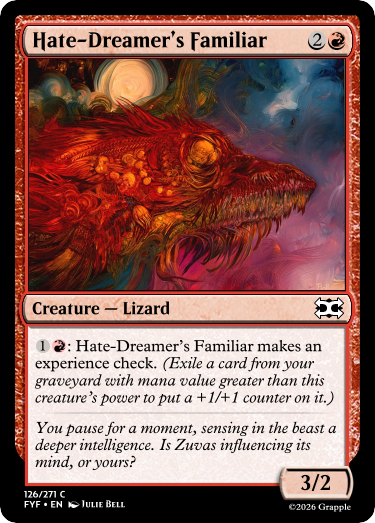
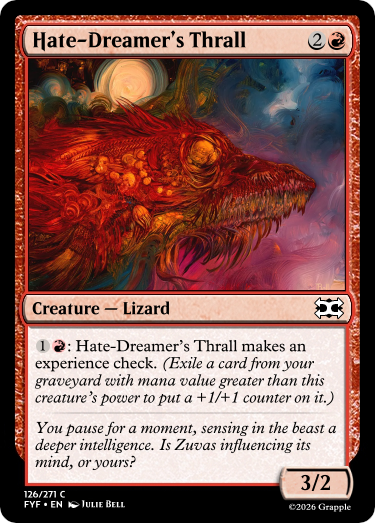
upd

diff --git a/previews/FYF.html b/previews/FYF.html
@@ -368,7 +368,7 @@
 				<div class="container"><img loading="lazy" alt="sets\FYF-files\img\269.png" id="FYF_269" data-flag="@X" onclick="openSidebar('FYF_269',false)"></div>
 				<div class="container"><img loading="lazy" alt="sets\FYF-files\img\31.png" id="FYF_31" data-flag="@N" onclick="openSidebar('FYF_31',false)"></div>
 				<div class="container"><img loading="lazy" alt="sets\FYF-files\img\65.png" id="FYF_65" data-flag="@X" onclick="openSidebar('FYF_65',false)"></div>
-				<div class="container"><img loading="lazy" alt="sets\FYF-files\img\97.png" id="FYF_97" data-flag="@N" onclick="openSidebar('FYF_97',false)"></div>
+				<div class="container"><img loading="lazy" alt="sets\FYF-files\img\97.png" id="FYF_97" data-flag="@X" onclick="openSidebar('FYF_97',false)"></div>
 				<div class="container"><img loading="lazy" alt="sets\FYF-files\img\131.png" id="FYF_131" data-flag="@N" onclick="openSidebar('FYF_131',false)"></div>
 				<div class="container"><img loading="lazy" alt="sets\FYF-files\img\273.png" id="FYF_273" data-flag="@X" onclick="openSidebar('FYF_273',false)"></div>
 				<div class="container"><img loading="lazy" alt="sets\FYF-files\img\30.png" id="FYF_30" data-flag="@N" onclick="openSidebar('FYF_30',false)"></div>
@@ -383,7 +383,7 @@
 				<div class="container"><img loading="lazy" alt="sets\FYF-files\img\175.png" id="FYF_175" data-flag="@N" onclick="openSidebar('FYF_175',false)"></div>
 				<div class="container"><img loading="lazy" alt="sets\FYF-files\img\42.png" id="FYF_42" data-flag="@N" onclick="openSidebar('FYF_42',false)"></div>
 				<div class="container"><img loading="lazy" alt="sets\FYF-files\img\71.png" id="FYF_71" data-flag="@X" onclick="openSidebar('FYF_71',false)"></div>
-				<div class="container"><img loading="lazy" alt="sets\FYF-files\img\111.png" id="FYF_111" data-flag="@N" onclick="openSidebar('FYF_111',false)"></div>
+				<div class="container"><img loading="lazy" alt="sets\FYF-files\img\111.png" id="FYF_111" data-flag="@X" onclick="openSidebar('FYF_111',false)"></div>
 				<div class="container"><img loading="lazy" alt="sets\FYF-files\img\140.png" id="FYF_140" data-flag="@N" onclick="openSidebar('FYF_140',false)"></div>
 				<div class="container"><img loading="lazy" alt="sets\FYF-files\img\176.png" id="FYF_176" data-flag="@N" onclick="openSidebar('FYF_176',false)"></div>
 				<div class="container"><img loading="lazy" alt="sets\FYF-files\img\44.png" id="FYF_44" data-flag="@N" onclick="openSidebar('FYF_44',false)"></div>
@@ -409,7 +409,7 @@
 				<div class="container"><img loading="lazy" alt="sets\FYF-files\img\38.png" id="FYF_38" data-flag="@X" onclick="openSidebar('FYF_38',false)"></div>
 				<div class="container"><img loading="lazy" alt="sets\FYF-files\img\75.png" id="FYF_75" data-flag="@N" onclick="openSidebar('FYF_75',false)"></div>
 				<div class="container"><img loading="lazy" alt="sets\FYF-files\img\108.png" id="FYF_108" data-flag="@N" onclick="openSidebar('FYF_108',false)"></div>
-				<div class="container"><img loading="lazy" alt="sets\FYF-files\img\144.png" id="FYF_144" data-flag="@N" onclick="openSidebar('FYF_144',false)"></div>
+				<div class="container"><img loading="lazy" alt="sets\FYF-files\img\144.png" id="FYF_144" data-flag="@X" onclick="openSidebar('FYF_144',false)"></div>
 				<div class="container"><img loading="lazy" alt="sets\FYF-files\img\170.png" id="FYF_170" data-flag="@N" onclick="openSidebar('FYF_170',false)"></div>
 				<div class="container"><img loading="lazy" alt="sets\FYF-files\img\36.png" id="FYF_36" data-flag="@N" onclick="openSidebar('FYF_36',false)"></div>
 				<div class="container"><img loading="lazy" alt="sets\FYF-files\img\275.png" id="FYF_275" data-flag="@N" onclick="openSidebar('FYF_275',false)"></div>
@@ -436,15 +436,15 @@
 				<div class="container"><img loading="lazy" alt="sets\FYF-files\img\91.png" id="FYF_91" data-flag="@N" onclick="openSidebar('FYF_91',false)"></div>
 				<div class="container"><img loading="lazy" alt="sets\FYF-files\img\121.png" id="FYF_121" data-flag="@X" onclick="openSidebar('FYF_121',false)"></div>
 				<div class="container"><img loading="lazy" alt="sets\FYF-files\img\162.png" id="FYF_162" data-flag="@N" onclick="openSidebar('FYF_162',false)"></div>
-				<div class="container"><img loading="lazy" alt="sets\FYF-files\img\259.png" id="FYF_259" data-flag="@N" onclick="openSidebar('FYF_259',false)"></div>
+				<div class="container"><img loading="lazy" alt="sets\FYF-files\img\259.png" id="FYF_259" data-flag="@X" onclick="openSidebar('FYF_259',false)"></div>
 				<div class="container"><img loading="lazy" alt="sets\FYF-files\img\50.png" id="FYF_50" data-flag="@N" onclick="openSidebar('FYF_50',false)"></div>
-				<div class="container"><img loading="lazy" alt="sets\FYF-files\img\115.png" id="FYF_115" data-flag="@N" onclick="openSidebar('FYF_115',false)"></div>
+				<div class="container"><img loading="lazy" alt="sets\FYF-files\img\115.png" id="FYF_115" data-flag="@X" onclick="openSidebar('FYF_115',false)"></div>
 				<div class="container"><img loading="lazy" alt="sets\FYF-files\img\128.png" id="FYF_128" data-flag="@X" onclick="openSidebar('FYF_128',false)"></div>
 				<div class="container"><img loading="lazy" alt="sets\FYF-files\img\159.png" id="FYF_159" data-flag="@N" onclick="openSidebar('FYF_159',false)"></div>
 				<div class="container"><img loading="lazy" alt="sets\FYF-files\img\19.png" id="FYF_19" data-flag="@N" onclick="openSidebar('FYF_19',false)"></div>
 				<div class="container"><img loading="lazy" alt="sets\FYF-files\img\57.png" id="FYF_57" data-flag="@N" onclick="openSidebar('FYF_57',false)"></div>
 				<div class="container"><img loading="lazy" alt="sets\FYF-files\img\92.png" id="FYF_92" data-flag="@N" onclick="openSidebar('FYF_92',false)"></div>
-				<div class="container"><img loading="lazy" alt="sets\FYF-files\img\126.png" id="FYF_126" data-flag="@N" onclick="openSidebar('FYF_126',false)"></div>
+				<div class="container"><img loading="lazy" alt="sets\FYF-files\img\126.png" id="FYF_126" data-flag="@X" onclick="openSidebar('FYF_126',false)"></div>
 				<div class="container"><img loading="lazy" alt="sets\FYF-files\img\151.png" id="FYF_151" data-flag="@N" onclick="openSidebar('FYF_151',false)"></div>
 				<div class="container"><img loading="lazy" alt="sets\FYF-files\img\24.png" id="FYF_24" data-flag="@N" onclick="openSidebar('FYF_24',false)"></div>
 				<div class="container"><img loading="lazy" alt="sets\FYF-files\img\242.png" id="FYF_242" data-flag="@N" onclick="openSidebar('FYF_242',false)"></div>
@@ -452,19 +452,19 @@
 				<div class="container"><img loading="lazy" alt="sets\FYF-files\img\116.png" id="FYF_116" data-flag="@N" onclick="openSidebar('FYF_116',false)"></div>
 				<div class="container"><img loading="lazy" alt="sets\FYF-files\img\148.png" id="FYF_148" data-flag="@N" onclick="openSidebar('FYF_148',false)"></div>
 				<div class="container"><img loading="lazy" alt="sets\FYF-files\img\22.png" id="FYF_22" data-flag="@N" onclick="openSidebar('FYF_22',false)"></div>
-				<div class="container"><img loading="lazy" alt="sets\FYF-files\img\58.png" id="FYF_58" data-flag="@N" onclick="openSidebar('FYF_58',false)"></div>
+				<div class="container"><img loading="lazy" alt="sets\FYF-files\img\58.png" id="FYF_58" data-flag="@X" onclick="openSidebar('FYF_58',false)"></div>
 				<div class="container"><img loading="lazy" alt="sets\FYF-files\img\85.png" id="FYF_85" data-flag="@N" onclick="openSidebar('FYF_85',false)"></div>
-				<div class="container"><img loading="lazy" alt="sets\FYF-files\img\118.png" id="FYF_118" data-flag="@N" onclick="openSidebar('FYF_118',false)"></div>
+				<div class="container"><img loading="lazy" alt="sets\FYF-files\img\118.png" id="FYF_118" data-flag="@X" onclick="openSidebar('FYF_118',false)"></div>
 				<div class="container"><img loading="lazy" alt="sets\FYF-files\img\149.png" id="FYF_149" data-flag="@N" onclick="openSidebar('FYF_149',false)"></div>
 				<div class="container"><img loading="lazy" alt="sets\FYF-files\img\21.png" id="FYF_21" data-flag="@N" onclick="openSidebar('FYF_21',false)"></div>
 				<div class="container"><img loading="lazy" alt="sets\FYF-files\img\51.png" id="FYF_51" data-flag="@N" onclick="openSidebar('FYF_51',false)"></div>
 				<div class="container"><img loading="lazy" alt="sets\FYF-files\img\82.png" id="FYF_82" data-flag="@N" onclick="openSidebar('FYF_82',false)"></div>
-				<div class="container"><img loading="lazy" alt="sets\FYF-files\img\114.png" id="FYF_114" data-flag="@N" onclick="openSidebar('FYF_114',false)"></div>
+				<div class="container"><img loading="lazy" alt="sets\FYF-files\img\114.png" id="FYF_114" data-flag="@X" onclick="openSidebar('FYF_114',false)"></div>
 				<div class="container"><img loading="lazy" alt="sets\FYF-files\img\160.png" id="FYF_160" data-flag="@N" onclick="openSidebar('FYF_160',false)"></div>
 				<div class="container"><img loading="lazy" alt="sets\FYF-files\img\26.png" id="FYF_26" data-flag="@N" onclick="openSidebar('FYF_26',false)"></div>
 				<div class="container"><img loading="lazy" alt="sets\FYF-files\img\60.png" id="FYF_60" data-flag="@N" onclick="openSidebar('FYF_60',false)"></div>
-				<div class="container"><img loading="lazy" alt="sets\FYF-files\img\83.png" id="FYF_83" data-flag="@N" onclick="openSidebar('FYF_83',false)"></div>
-				<div class="container"><img loading="lazy" alt="sets\FYF-files\img\117.png" id="FYF_117" data-flag="@N" onclick="openSidebar('FYF_117',false)"></div>
+				<div class="container"><img loading="lazy" alt="sets\FYF-files\img\83.png" id="FYF_83" data-flag="@X" onclick="openSidebar('FYF_83',false)"></div>
+				<div class="container"><img loading="lazy" alt="sets\FYF-files\img\117.png" id="FYF_117" data-flag="@X" onclick="openSidebar('FYF_117',false)"></div>
 				<div class="container"><img loading="lazy" alt="sets\FYF-files\img\152.png" id="FYF_152" data-flag="@N" onclick="openSidebar('FYF_152',false)"></div>
 				<div class="container"><img loading="lazy" alt="sets\FYF-files\img\16.png" id="FYF_16" data-flag="@N" onclick="openSidebar('FYF_16',false)"></div>
 				<div class="container"><img loading="lazy" alt="sets\FYF-files\img\55.png" id="FYF_55" data-flag="@N" onclick="openSidebar('FYF_55',false)"></div>
@@ -490,7 +490,7 @@
 				<div class="container"><img loading="lazy" alt="sets\FYF-files\img\59.png" id="FYF_59" data-flag="@N" onclick="openSidebar('FYF_59',false)"></div>
 				<div class="container"><img loading="lazy" alt="sets\FYF-files\img\90.png" id="FYF_90" data-flag="@N" onclick="openSidebar('FYF_90',false)"></div>
 				<div class="container"><img loading="lazy" alt="sets\FYF-files\img\119.png" id="FYF_119" data-flag="@N" onclick="openSidebar('FYF_119',false)"></div>
-				<div class="container"><img loading="lazy" alt="sets\FYF-files\img\155.png" id="FYF_155" data-flag="@N" onclick="openSidebar('FYF_155',false)"></div>
+				<div class="container"><img loading="lazy" alt="sets\FYF-files\img\155.png" id="FYF_155" data-flag="@X" onclick="openSidebar('FYF_155',false)"></div>
 				<div class="container"><img loading="lazy" alt="sets\FYF-files\img\17.png" id="FYF_17" data-flag="@N" onclick="openSidebar('FYF_17',false)"></div>
 				<div class="container"><img loading="lazy" alt="sets\FYF-files\img\49.png" id="FYF_49" data-flag="@N" onclick="openSidebar('FYF_49',false)"></div>
 				<div class="container"><img loading="lazy" alt="sets\FYF-files\img\93.png" id="FYF_93" data-flag="@X" onclick="openSidebar('FYF_93',false)"></div>
@@ -501,7 +501,7 @@
 				<div class="container"><img loading="lazy" alt="img\er.png" id="FYF_er" data-flag="@E" onclick="openSidebar('FYF_er',false)"></div>
 				<div class="container"><img loading="lazy" alt="img\er.png" id="FYF_er" data-flag="@E" onclick="openSidebar('FYF_er',false)"></div>
 				<div id="gmyth" class="anchor"></div>
-				<div class="container"><img loading="lazy" alt="sets\FYF-files\img\4.png" id="FYF_4" data-flag="@N" onclick="openSidebar('FYF_4',false)"></div>
+				<div class="container"><img loading="lazy" alt="sets\FYF-files\img\4.png" id="FYF_4" data-flag="@X" onclick="openSidebar('FYF_4',false)"></div>
 				<div class="container"><img loading="lazy" alt="sets\FYF-files\img\2.png" id="FYF_2" data-flag="@N" onclick="openSidebar('FYF_2',false)"></div>
 				<div class="container"><img loading="lazy" alt="sets\FYF-files\img\3.png" id="FYF_3" data-flag="@N" onclick="openSidebar('FYF_3',false)"></div>
 				<div class="container"><img loading="lazy" alt="sets\FYF-files\img\0.png" id="FYF_0" data-flag="@N" onclick="openSidebar('FYF_0',true)"></div>
@@ -534,7 +534,7 @@
 				<div class="container"><img loading="lazy" alt="sets\FYF-files\img\244.png" id="FYF_244" data-flag="@N" onclick="openSidebar('FYF_244',false)"></div>
 				<div class="container"><img loading="lazy" alt="sets\FYF-files\img\243.png" id="FYF_243" data-flag="@X" onclick="openSidebar('FYF_243',false)"></div>
 				<div class="container"><img loading="lazy" alt="sets\FYF-files\img\245.png" id="FYF_245" data-flag="@N" onclick="openSidebar('FYF_245',false)"></div>
-				<div class="container"><img loading="lazy" alt="sets\FYF-files\img\246.png" id="FYF_246" data-flag="@N" onclick="openSidebar('FYF_246',false)"></div>
+				<div class="container"><img loading="lazy" alt="sets\FYF-files\img\246.png" id="FYF_246" data-flag="@X" onclick="openSidebar('FYF_246',false)"></div>
 				<div class="container"><img loading="lazy" alt="sets\FYF-files\img\247.png" id="FYF_247" data-flag="@X" onclick="openSidebar('FYF_247',false)"></div>
 				<div class="container"><img loading="lazy" alt="img\er.png" id="FYF_er" data-flag="@E" onclick="openSidebar('FYF_er',false)"></div>
 				<div class="container"><img loading="lazy" alt="img\er.png" id="FYF_er" data-flag="@E" onclick="openSidebar('FYF_er',false)"></div>
@@ -544,7 +544,7 @@
 				<div class="container"><img loading="lazy" alt="sets\FYF-files\img\185.png" id="FYF_185" data-flag="@N" onclick="openSidebar('FYF_185',false)"></div>
 				<div class="container"><img loading="lazy" alt="sets\FYF-files\img\186.png" id="FYF_186" data-flag="@X" onclick="openSidebar('FYF_186',false)"></div>
 				<div class="container"><img loading="lazy" alt="sets\FYF-files\img\181.png" id="FYF_181" data-flag="@X" onclick="openSidebar('FYF_181',false)"></div>
-				<div class="container"><img loading="lazy" alt="sets\FYF-files\img\183.png" id="FYF_183" data-flag="@N" onclick="openSidebar('FYF_183',false)"></div>
+				<div class="container"><img loading="lazy" alt="sets\FYF-files\img\183.png" id="FYF_183" data-flag="@X" onclick="openSidebar('FYF_183',false)"></div>
 				<div class="container"><img loading="lazy" alt="sets\FYF-files\img\184.png" id="FYF_184" data-flag="@N" onclick="openSidebar('FYF_184',false)"></div>
 				<div class="container"><img loading="lazy" alt="sets\FYF-files\img\236.png" id="FYF_236" data-flag="@N" onclick="openSidebar('FYF_236',false)"></div>
 				<div class="container"><img loading="lazy" alt="sets\FYF-files\img\193.png" id="FYF_193" data-flag="@X" onclick="openSidebar('FYF_193',false)"></div>
@@ -586,7 +586,7 @@
 				<div class="container"><img loading="lazy" alt="sets\FYF-files\img\113.png" id="FYF_113" data-flag="@N" onclick="openSidebar('FYF_113',false)"></div>
 				<div class="container"><img loading="lazy" alt="sets\FYF-files\img\146.png" id="FYF_146" data-flag="@N" onclick="openSidebar('FYF_146',false)"></div>
 				<div class="container"><img loading="lazy" alt="sets\FYF-files\img\179.png" id="FYF_179" data-flag="@X" onclick="openSidebar('FYF_179',false)"></div>
-				<div class="container"><img loading="lazy" alt="sets\FYF-files\img\15.png" id="FYF_15" data-flag="@N" onclick="openSidebar('FYF_15',false)"></div>
+				<div class="container"><img loading="lazy" alt="sets\FYF-files\img\15.png" id="FYF_15" data-flag="@X" onclick="openSidebar('FYF_15',false)"></div>
 				<div class="container"><img loading="lazy" alt="sets\FYF-files\img\125.png" id="FYF_125" data-flag="@N" onclick="openSidebar('FYF_125',false)"></div>
 				<div class="container"><img loading="lazy" alt="sets\FYF-files\img\158.png" id="FYF_158" data-flag="@X" onclick="openSidebar('FYF_158',false)"></div>
 				<div class="container"><img loading="lazy" alt="sets\FYF-files\img\81.png" id="FYF_81" data-flag="@N" onclick="openSidebar('FYF_81',false)"></div>
@@ -599,7 +599,7 @@
 				<div class="container"><img loading="lazy" alt="sets\FYF-files\img\1.png" id="FYF_1" data-flag="@N" onclick="openSidebar('FYF_1',false)"></div>
 				<div class="container"><img loading="lazy" alt="sets\FYF-files\img\12.png" id="FYF_12" data-flag="@N" onclick="openSidebar('FYF_12',false)"></div>
 				<div class="container"><img loading="lazy" alt="sets\FYF-files\img\274.png" id="FYF_274" data-flag="@N" onclick="openSidebar('FYF_274',false)"></div>
-				<div class="container"><img loading="lazy" alt="sets\FYF-files\img\13.png" id="FYF_13" data-flag="@N" onclick="openSidebar('FYF_13',false)"></div>
+				<div class="container"><img loading="lazy" alt="sets\FYF-files\img\13.png" id="FYF_13" data-flag="@X" onclick="openSidebar('FYF_13',false)"></div>
 				<div class="container"><img loading="lazy" alt="sets\FYF-files\img\5.png" id="FYF_5" data-flag="@N" onclick="openSidebar('FYF_5',false)"></div>
 				<div class="container"><img loading="lazy" alt="sets\FYF-files\img\219.png" id="FYF_219" data-flag="@N" onclick="openSidebar('FYF_219',false)"></div>
 				<div class="container"><img loading="lazy" alt="sets\FYF-files\img\217.png" id="FYF_217" data-flag="@N" onclick="openSidebar('FYF_217',false)"></div>
@@ -616,7 +616,7 @@
 				<div class="container"><img loading="lazy" alt="img\er.png" id="FYF_er" data-flag="@E" onclick="openSidebar('FYF_er',false)"></div>
 				<div class="container"><img loading="lazy" alt="img\er.png" id="FYF_er" data-flag="@E" onclick="openSidebar('FYF_er',false)"></div>
 				<div class="container"><img loading="lazy" alt="img\er.png" id="FYF_er" data-flag="@E" onclick="openSidebar('FYF_er',false)"></div>
-				<div class="container"><img loading="lazy" alt="sets\FYF-files\img\250.png" id="FYF_250" data-flag="@N" onclick="openSidebar('FYF_250',false)"></div>
+				<div class="container"><img loading="lazy" alt="sets\FYF-files\img\250.png" id="FYF_250" data-flag="@X" onclick="openSidebar('FYF_250',false)"></div>
 				<div class="container"><img loading="lazy" alt="sets\FYF-files\img\251.png" id="FYF_251" data-flag="@X" onclick="openSidebar('FYF_251',false)"></div>
 				<div class="container"><img loading="lazy" alt="sets\FYF-files\img\248.png" id="FYF_248" data-flag="@N" onclick="openSidebar('FYF_248',false)"></div>
 				<div class="container"><img loading="lazy" alt="sets\FYF-files\img\252.png" id="FYF_252" data-flag="@X" onclick="openSidebar('FYF_252',false)"></div>
@@ -662,7 +662,7 @@
 				<div class="container"><img loading="lazy" alt="img\er.png" id="FYF_er" data-flag="@E" onclick="openSidebar('FYF_er',false)"></div>
 				<div id="promo" class="anchor"></div>
 				<div class="container"><img loading="lazy" alt="sets\FYF-files\img\225.png" id="FYF_225" data-flag="@N" onclick="openSidebar('FYF_225',false)"></div>
-				<div class="container"><img loading="lazy" alt="sets\FYF-files\img\226.png" id="FYF_226" data-flag="@N" onclick="openSidebar('FYF_226',false)"></div>
+				<div class="container"><img loading="lazy" alt="sets\FYF-files\img\226.png" id="FYF_226" data-flag="@X" onclick="openSidebar('FYF_226',false)"></div>
 				<div class="container"><img loading="lazy" alt="img\e.png" id="FYF_e" data-flag="@E" onclick="openSidebar('FYF_e',false)"></div>
 				<div class="container"><img loading="lazy" alt="img\e.png" id="FYF_e" data-flag="@E" onclick="openSidebar('FYF_e',false)"></div>
 				<div class="container"><img loading="lazy" alt="img\e.png" id="FYF_e" data-flag="@E" onclick="openSidebar('FYF_e',false)"></div>
@@ -675,10 +675,10 @@
 				<div class="container"><img loading="lazy" alt="sets\FYF-files\img\227.png" id="FYF_227" data-flag="@N" onclick="openSidebar('FYF_227',false)"></div>
 				<div class="container"><img loading="lazy" alt="sets\FYF-files\img\258.png" id="FYF_258" data-flag="@N" onclick="openSidebar('FYF_258',false)"></div>
 				<div class="container"><img loading="lazy" alt="sets\FYF-files\img\257.png" id="FYF_257" data-flag="@X" onclick="openSidebar('FYF_257',false)"></div>
-				<div class="container"><img loading="lazy" alt="sets\FYF-files\img\265.png" id="FYF_265" data-flag="@N" onclick="openSidebar('FYF_265',false)"></div>
-				<div class="container"><img loading="lazy" alt="sets\FYF-files\img\268.png" id="FYF_268" data-flag="@N" onclick="openSidebar('FYF_268',false)"></div>
+				<div class="container"><img loading="lazy" alt="sets\FYF-files\img\265.png" id="FYF_265" data-flag="@X" onclick="openSidebar('FYF_265',false)"></div>
+				<div class="container"><img loading="lazy" alt="sets\FYF-files\img\268.png" id="FYF_268" data-flag="@X" onclick="openSidebar('FYF_268',false)"></div>
 				<div class="container"><img loading="lazy" alt="sets\FYF-files\img\267.png" id="FYF_267" data-flag="@N" onclick="openSidebar('FYF_267',false)"></div>
-				<div class="container"><img loading="lazy" alt="sets\FYF-files\img\234.png" id="FYF_234" data-flag="@N" onclick="openSidebar('FYF_234',false)"></div>
+				<div class="container"><img loading="lazy" alt="sets\FYF-files\img\234.png" id="FYF_234" data-flag="@X" onclick="openSidebar('FYF_234',false)"></div>
 				<div class="container"><img loading="lazy" alt="sets\FYF-files\img\228.png" id="FYF_228" data-flag="@N" onclick="openSidebar('FYF_228',false)"></div>
 				<div class="container"><img loading="lazy" alt="img\e.png" id="FYF_e" data-flag="@E" onclick="openSidebar('FYF_e',false)"></div>
 				<div class="container"><img loading="lazy" alt="img\er.png" id="FYF_er" data-flag="@E" onclick="openSidebar('FYF_er',false)"></div>